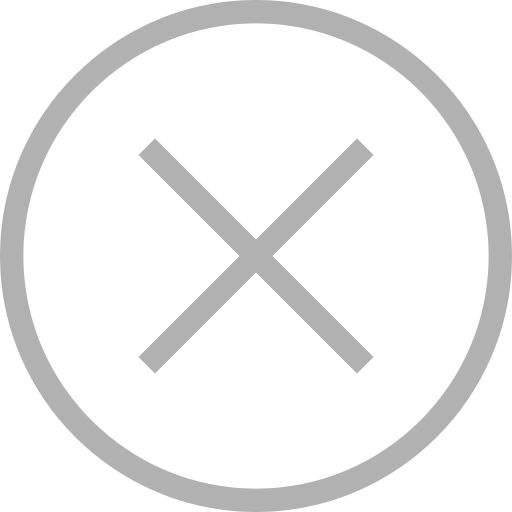
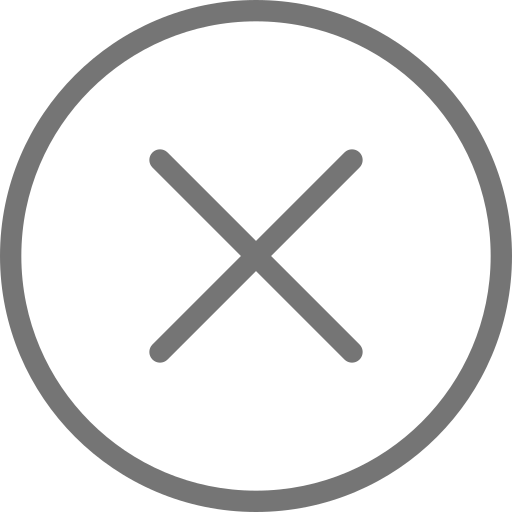
add contrast to styling

Changed region(s): [[0.0, 0.0, 1.0, 1.0], [0.25, 0.25, 0.75, 0.75]]

diff --git a/src/components/Buttons/AddButton.js b/src/components/Buttons/AddButton.js
@@ -15,6 +15,7 @@ const Button = styled.button`
   background: #ffffff;
   color: var(--primary);
   font-size: 18px;
+  font-weight: 600;
   padding: 16px;
   border: 4px solid var(--tertiary);
   border-radius: 12px;

diff --git a/src/GlobalStyles.js b/src/GlobalStyles.js
@@ -63,6 +63,6 @@ main {
     --primary: #3ec2c4;
     --secondary: #3e474a;
     --tertiary: #cff0f0;
-    --quaternary: #b1b1b1;
+    --quaternary: #757575;
     }
 `

diff --git a/src/components/general/UserHeader.js b/src/components/general/UserHeader.js
@@ -27,6 +27,6 @@ const HeaderStyled = styled.header`
   }
   p {
     margin-right: 8px;
-    color: var(--primary);
+    color: var(--quaternary);
   }
 `

diff --git a/README.md b/README.md
@@ -40,14 +40,11 @@ When viewing this app, please switch your browser to iPhone 6/7/8 mode, as it wa
    `git@github.com:nikkypyra/capstone-project.git`
 2. Install dependencies  
    `npm install`
-3. Run the application with  
-   `npm start`
-4. Install and initialize Firebase CLI. For more information check out the [firebase CLI documentation](https://firebase.google.com/docs/cli/).  
-   `npm install -g firebase-tools`
-5. Run Storybook with  
+3. Install and initialize Firebase CLI. For more information check out the [firebase CLI documentation](https://firebase.google.com/docs/cli/).  
+4. Run Storybook with  
    `npm run storybook`
-6. Run Cypress with  
+5. Run Cypress with  
    `npm run cypress`
-7. Run React Testing Library & Jest with  
+6. Run React Testing Library & Jest with  
    `npm test`
 
